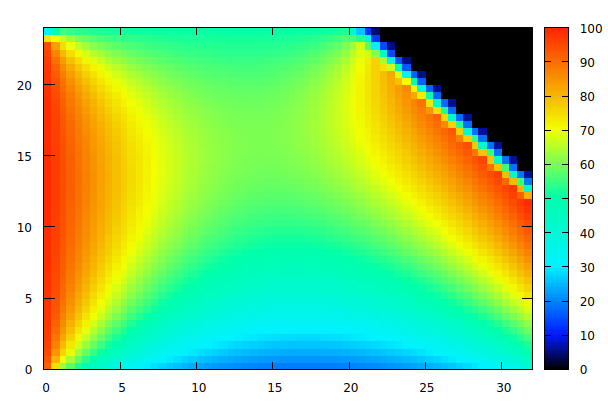
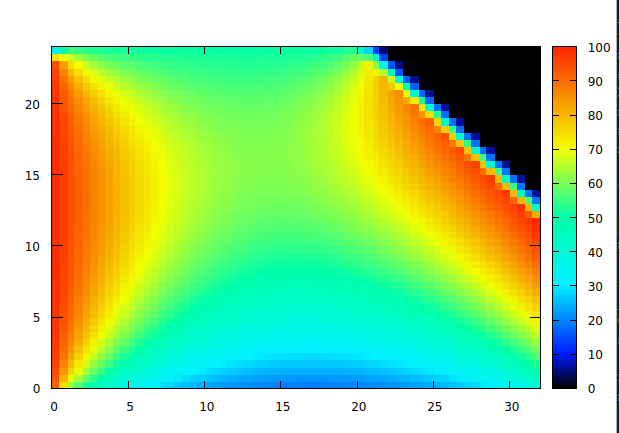
fix(lab_6sem): BC-2

diff --git a/lab3/src/main.c b/lab3/src/main.c
@@ -124,9 +124,8 @@ void initialise(double **vector, double ***matrix) {
                 (*vector)[i * x_nodes + j] = temp_init; // начальное условие нестационарной задачи
             } else if (j >= top_border / h && i == (j - top_border / h)) { // Правая скошенная граница - ГУ 2-го рода
                 double cos_45 = sqrt(2) / 2;
-                (*matrix)[i * x_nodes + j][i * x_nodes + j] = cos_45 * (1 / h + 1 / h);
-                (*matrix)[i * x_nodes + j][i * x_nodes + j - 1] = -(1 / h) * cos_45;
-                (*matrix)[i * x_nodes + j][(i + 1) * x_nodes + j] = -(1 / h) * cos_45;
+                (*matrix)[i * x_nodes + j][i * x_nodes + j] = 1 / (sqrt(2) * h);
+                (*matrix)[i * x_nodes + j][(i + 1) * x_nodes + j - 1] = - 1 / (sqrt(2) * h);
                 (*vector)[i * x_nodes + j] = 20;
             } else if (i * h <= (height - right_border) && j >= top_border / h &&
                        i <= (j - top_border / h)) { // Пустая область
